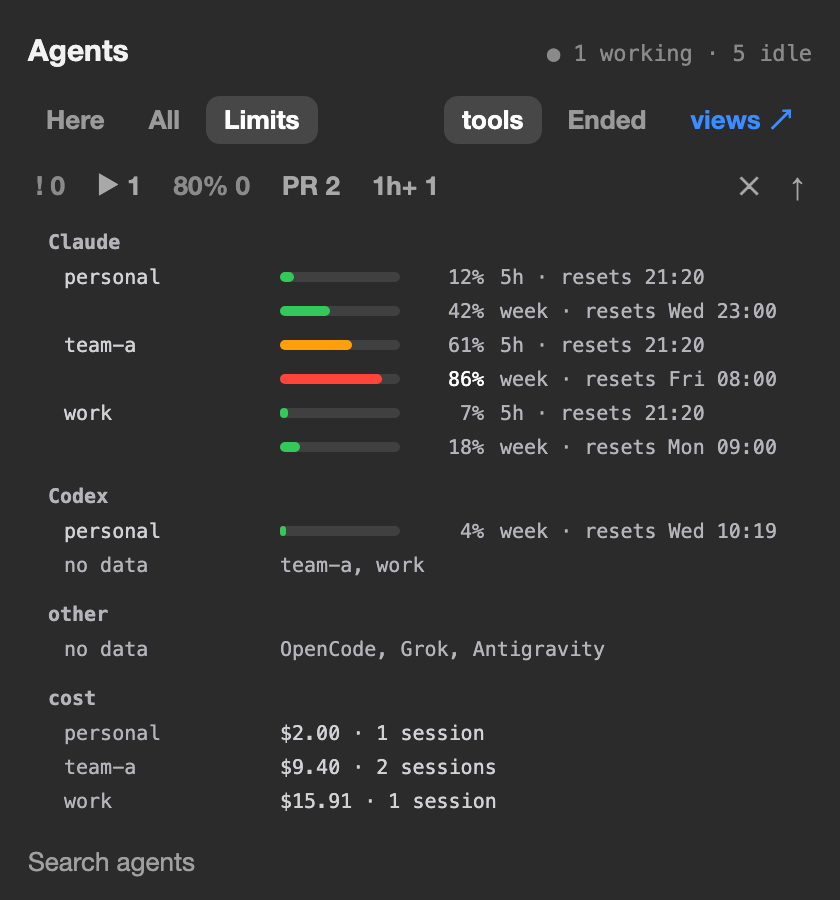
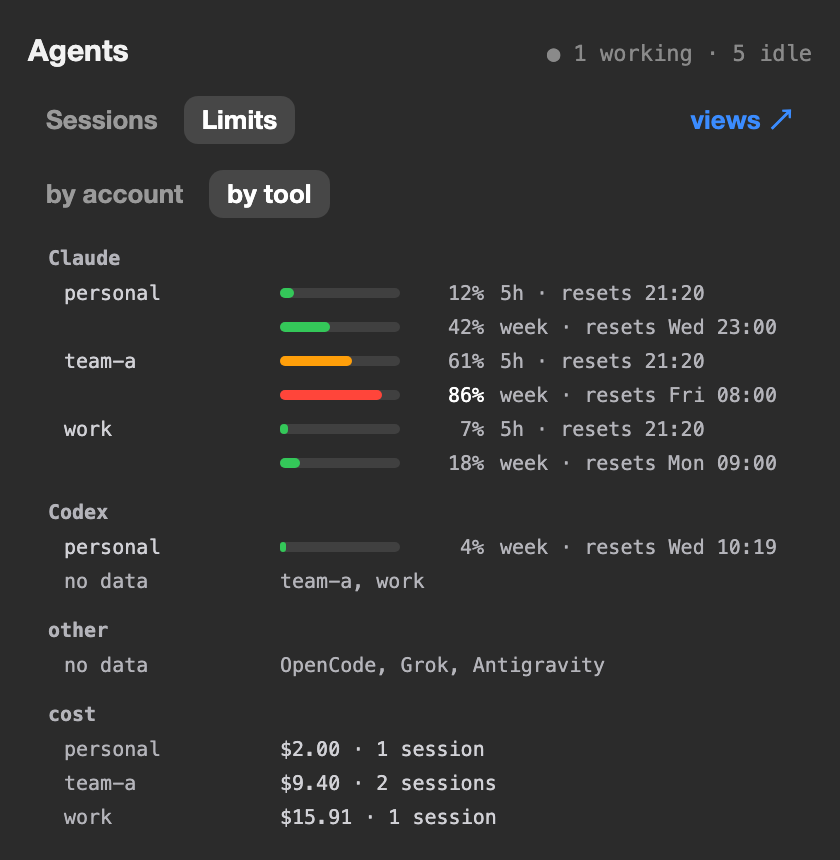
Panel controls: one job per row, and each view shows only its own controls
Row 1 is the view (Sessions, Limits), row 2 the arrangement, row 3 the filters.
Ended is a chip with a count; the Limits view shows only by account / by tool.

Claude-Session: https://claude.ai/code/session_01HXnduJEMf4sVkPrvQkemg9

diff --git a/sidebars/agents.js b/sidebars/agents.js
@@ -1487,32 +1487,49 @@ sidebar(() =>
       // No text: this view reads the tab titles, so it runs again when one changes, and serves the hive page's jumps.
       // It sits under the control row, so it adds no gap to a row.
       Text(() => hiveGo()).font(1),
+      // Row 1, what you look at: the sessions or the limits. The link at the right leaves the panel: it opens the
+      // views page in the browser (the hive tree, the timeline, cost, flow, limits, queue, context and rhythm).
       HStack({ spacing: 4 }, [
         HStack({ spacing: 0 }, [
-          segment("Here", () => !scopeAll() && !showLimits(), () => setView({ s: false, l: false })),
-          segment("All", () => scopeAll() && !showLimits(), () => setView({ s: true, l: false })),
-          segment("Limits", () => showLimits(), () => setView({ l: !showLimits() })),
+          segment("Sessions", () => !showLimits(), () => setView({ l: false })),
+          segment("Limits", () => showLimits(), () => setView({ l: !showLimits() })),  // a second click goes back to the sessions
         ]),
         Spacer(),
-        // The attention sort, then the view by state in place of by workspace.
-        toggleButton("↑", () => attention(), () => setView({ a: !attention() }), 4),
-        // In the Limits view this place holds "tools": the limits per tool in place of per account.
-        toggleButton(() => (limitsShown() ? "tools" : "state"), () => (limitsShown() ? limitsByTool() : byState()),
-          () => (limitsShown() ? setLimitsByTool(!limitsByTool()) : setByState(!byState())), 3),
-        toggleButton("Ended", () => showEnded(), () => setView({ e: !showEnded() }), 2),
-        // Opens the views page in the browser: the hive tree, the timeline, cost, flow, limits, queue, context and rhythm.
         toggleButton("views ↗", () => false, () => openViews(), 1),
       ]).paddingHorizontal(10),
     ]),
 
-    // Filter chips (a second click on the active chip shows all rows again), then the Reset chip.
-    optional("chips", () => chipItems().length || viewChanged(), () => HStack({ spacing: 4 }, [
+    // Row 2, how it is arranged. A control with no effect in a view is not shown there.
+    // Sessions: this workspace or all, then the grouping by state and the attention sort.
+    optional("arrange", () => !limitsShown(), () => HStack({ spacing: 4 }, [
+      HStack({ spacing: 0 }, [
+        segment("Here", () => !scopeAll(), () => setView({ s: false })),
+        segment("All", () => scopeAll(), () => setView({ s: true })),
+      ]),
+      Spacer(),
+      toggleButton("by state", () => byState(), () => setByState(!byState()), 2),
+      toggleButton("attention first", () => attention(), () => setView({ a: !attention() }), 1),
+    ]).paddingHorizontal(10)),
+    // Limits: per account (what one account uses and costs) or per tool (which account of a tool has room).
+    optional("limits-group", limitsShown, () => HStack({ spacing: 0 }, [
+      segment("by account", () => !limitsByTool(), () => setLimitsByTool(false)),
+      segment("by tool", () => limitsByTool(), () => setLimitsByTool(true)),
+      Spacer(),
+    ]).paddingHorizontal(10)),
+
+    // Row 3, what is filtered (sessions only). A second click on the active chip shows all rows again. The chip
+    // "ended" adds the ended sessions to the list. Then the Reset chip.
+    optional("chips", () => !limitsShown() && (chipItems().length || viewChanged() || counts().ended > 0), () => HStack({ spacing: 4 }, [
       ForEach({ items: chipItems, key: (f) => f.id }, filterChip),
+      optional("ended", () => counts().ended > 0 || showEnded(), () =>
+        chip("ended", () => String(counts().ended), () => showEnded(), () => setView({ e: !showEnded() }))
+          .help("Show the ended sessions too")),
       Spacer(),
       optional("reset", viewChanged, resetChip),
     ]).paddingHorizontal(10)),
-    // One chip per account. A second click shows all again.
-    optional("accts", () => acctItems().length, () => HStack({ spacing: 4 }, [
+    // One chip per account, after the word "account". A second click shows all again.
+    optional("accts", () => !limitsShown() && acctItems().length, () => HStack({ spacing: 4 }, [
+      Text("account").font(10).monospaced().color(META).lineLimit(1).fixedSize(),
       ForEach({ items: acctItems, key: (a) => a.id },
         (a) => chip(() => a().id, () => String(a().n), () => acctFilter() === a().id, () => setAcctFilter(acctFilter() === a().id ? "" : a().id))),
       Spacer(),
@@ -1522,7 +1539,8 @@ sidebar(() =>
     // The Limits view takes the place of the session list.
     optional("limits", limitsShown, () => VStack({ spacing: 3 }, [ForEach({ items: limitRows, key: (s) => s.key }, (s) => limitRow(s))])),
 
-    HStack({ spacing: 0 }, [
+    // The search looks in the session list, so the Limits view does not show it.
+    optional("search", () => !limitsShown(), () => HStack({ spacing: 0 }, [
       HStack({ spacing: 6 }, [
         Image("magnifyingglass").font(10).monospaced().color(META),
         TextField("", {
@@ -1532,7 +1550,7 @@ sidebar(() =>
           onSubmit: (t) => setQuery(t ?? ""),
         }),
       ]).paddingHorizontal(8).paddingVertical(5).background("#FFFFFF0F").cornerRadius(8),
-    ]).paddingHorizontal(10),
+    ]).paddingHorizontal(10)),
   ]),
 
     VStack({ spacing: 3 }, [ForEach(

diff --git a/examples/limits-tools.html b/examples/limits-tools.html
@@ -29,8 +29,8 @@
 </style></head>
 <body>
   <div class="head"><h1>Agents</h1><span class="mono dim" style="font-size:11px">● 1 working · 5 idle</span></div>
-  <div class="bar"><span>Here</span><span>All</span><span class="on">Limits</span><span class="sp"></span><span class="on">tools</span><span>Ended</span><span class="link">views ↗</span></div>
-  <div class="chips"><span class="dim">! 0</span><span>▶ 1</span><span class="dim">80% 0</span><span>PR 2</span><span>1h+ 1</span><span class="sp"></span><span>✕</span><span>↑</span></div>
+  <div class="bar"><span>Sessions</span><span class="on">Limits</span><span class="sp"></span><span class="link">views ↗</span></div>
+  <div class="bar"><span >by account</span><span class="on">by tool</span></div>
   <div class="rows">
     <div class="grp">Claude</div>
     <div class="ln"><span class="t" style="width:100px">personal</span><span class="trk"><i style="width:7px;background:#34c759"></i></span><span class="p">12%</span><span>5h · resets 21:20</span></div>
@@ -49,5 +49,4 @@
     <div class="ln"><span class="t m" style="width:100px">team-a</span><span class="cost">$9.40 · 2 sessions</span></div>
     <div class="ln"><span class="t m" style="width:100px">work</span><span class="cost">$15.91 · 1 session</span></div>
   </div>
-  <div class="search">Search agents</div>
 </body></html>

diff --git a/examples/limits.html b/examples/limits.html
@@ -29,8 +29,8 @@
 </style></head>
 <body>
   <div class="head"><h1>Agents</h1><span class="mono dim" style="font-size:11px">● 1 working · 5 idle</span></div>
-  <div class="bar"><span>Here</span><span>All</span><span class="on">Limits</span><span class="sp"></span><span>tools</span><span>Ended</span><span class="link">views ↗</span></div>
-  <div class="chips"><span class="dim">! 0</span><span>▶ 1</span><span class="dim">80% 0</span><span>PR 2</span><span>1h+ 1</span><span class="sp"></span><span>✕</span><span>↑</span></div>
+  <div class="bar"><span>Sessions</span><span class="on">Limits</span><span class="sp"></span><span class="link">views ↗</span></div>
+  <div class="bar"><span class="on">by account</span><span >by tool</span></div>
   <div class="rows">
     <div class="grp">personal</div>
     <div class="ln"><span class="t">Claude</span><span class="trk"><i style="width:7px;background:#34c759"></i></span><span class="p">12%</span><span>5h · resets 21:20</span></div>
@@ -50,5 +50,4 @@
     <div class="grp">other</div>
     <div class="ln"><span class="t m">no data</span><span>OpenCode, Grok, Antigravity</span></div>
   </div>
-  <div class="search">Search agents</div>
 </body></html>

diff --git a/examples/panel.html b/examples/panel.html
@@ -51,7 +51,8 @@
 </style></head>
 <body>
   <div class="head"><h1>Agents</h1><span class="tot"><span style="color:#5aa9ff">2 working</span><span style="color:#5ecb6b">4 idle</span><span class="mono" style="color:#d1d1d6">$68</span></span></div>
-  <div class="bar"><span>Here</span><span class="on">All</span><span>Limits</span><span class="sp"></span><span>↑</span><span>state</span><span>Ended</span><span>views ↗</span></div>
+  <div class="bar"><span class="on">Sessions</span><span>Limits</span><span class="sp"></span><span>views ↗</span></div>
+  <div class="bar"><span>Here</span><span class="on">All</span><span class="sp"></span><span>by state</span><span>attention first</span></div>
   <span class="chip">you<small>2</small></span>
   <div class="strip">
     <div><span class="k">train</span><span>merged #42</span></div>

diff --git a/README.md b/README.md
@@ -29,14 +29,14 @@ All pictures in this file are renders with sample names and sample figures.
 | `NEEDS YOU` block | All sessions that wait for your input, at the top, with the reason when it is known |
 | Filter chips | `80%` context nearly full, `PR` has a pull request, `1h+` idle for an hour, `you` the next step is yours, `push` commits that no remote holds. Each chip shows its count and names its filter on hover |
 | Head counts | `1 need you` and `2 working` at the top filter the list to those sessions; a second tap shows all. The `idle` count has no tap, because the `1h+` chip counts only sessions idle for an hour |
-| `↑` sort | Sessions that need attention first; the default order is the tab order |
-| `✕ Reset` | Shows when the view is not the default. Back to the default view: no chip, no account, tab order, all workspaces, no ended rows, no `state` grouping. The search text stays |
+| `attention first` | Sort: sessions that need attention first; the default order is the tab order |
+| `✕ Reset` | Shows when the view is not the default. Back to the default view: no chip, no account, tab order, all workspaces, no ended rows, no `by state` grouping. The search text stays |
 | Subagents | `▸ 2 sub` on a row opens the subagent rows. The count comes from cmux, or from the Claude Code records when cmux reports none |
 | Details | `›` on a row opens state, tool, folder, branch, ports, first and last request |
 | Right-click menu | Go to session, copy name, copy folder, copy PR number, fast commands |
 | `views ↗` | A page of pictures in a cmux browser tab, with a switch at the top: Hive, Timeline, Cost, Limits, Queue, Context, Inside, Rhythm, Setup (see "The views page"). The Hive view is a graph: workspace → session → subagent. It updates every 15 seconds. The open tab has a blue box. A click on a session goes to its tab, and the page follows you to another workspace |
 | Next waiting | `next-waiting.sh` goes to the Claude Code session that has waited for you the longest |
-| `Limits` | Next to `Here` and `All`: the rate limits of each agent tool on this Mac, per window (5 hours, week), with the reset time and the age of the figure. Grouped per account; the `tools` switch groups them per tool (see "The Limits view"). The panel remembers the choice |
+| `Limits` | Next to `Sessions` in the first row: the rate limits of each agent tool on this Mac, per window (5 hours, week), with the reset time and the age of the figure. Grouped `by account`; `by tool` groups them per tool (see "The Limits view"). The panel remembers the choice |
 | Search | Type in `Search agents`: rows stay when the text is in the tab title (with the session name), the tool, the account, the workspace name or the folder. Capital letters do not matter. A search text looks in every workspace, also with `Here` on. A chip narrows the result further. While `Limits` is on, a search text shows the sessions again |
 | Account chips | With sessions on two accounts or more, one chip per account under the filter chips, with its row count. A click shows only that account; a second click, or `✕ Reset`, shows all |
 | Account colour | Each account name has one fixed colour, the same on the row tag, on the hive page and at the start of the session's status line. There are six colours, so two names can share one |
@@ -59,7 +59,7 @@ All pictures in this file are renders with sample names and sample figures.
 | Health | One mark per row, the worst first: `loop 6` (red: 6 failed tool calls in a row), `overlap 2` (yellow: 2 files also edited by another session), `silent 1` (yellow: a subagent with no output for 10 minutes to 2 hours). The row details list all of them, with the total of failed tool calls and API errors; that total is not a mark, because every long session has one |
 | On its agents | A session that ended its turn while its subagents still run shows `agents running` and is not counted in `NEEDS YOU` until they end. A permission or a question always counts |
 | Not seen | A session that ended its turn in a tab without focus is `finished · not seen` until you open the tab (kept until the panel reloads) |
-| `state` | Next to `↑`: groups the rows by state in place of by workspace: `NEEDS YOU`, `FINISHED · NOT SEEN`, `RUNNING`, `RECENT` (idle under 1 hour), `IDLE`. Each row then carries its workspace as a pill. Not saved across reloads |
+| `by state` | Next to `attention first`: groups the rows by state in place of by workspace: `NEEDS YOU`, `FINISHED · NOT SEEN`, `RUNNING`, `RECENT` (idle under 1 hour), `IDLE`. Each row then carries its workspace as a pill. Not saved across reloads |
 | Limit bars | Each live limit window has a bar and its percent in fixed columns: green, orange from 50%, red from 80%. Each limit line of the strip has a small bar too. The `train` line leaves out clauses such as `refused none` |
 | Empty list | `No sessions yet` when no session runs. `Nothing matches` when a chip, an account, `Here` or the search hides every session; `Clear filters` resets the view and the search |
 | Work marks | In orange on a row: `dup` when two live sessions work in one folder on one work branch, `↑2` for 2 commits that no remote holds, `⟳3` from the third context compaction |
@@ -82,10 +82,12 @@ From top to bottom of the picture. "You do" says what the mark asks of you.
 | Mark | Meaning | You do |
 |---|---|---|
 | `2 working` `4 idle` `$68` | Sessions that work now, sessions that wait, summed cost of the open sessions | Click a count to filter the list to those sessions |
-| `Here` `All` `Limits` | `Here`: the sessions of the open workspace. `All`: every workspace. `Limits`: the rate limits per tool and account | Click one; the panel remembers it |
-| `↑` | Sort: sessions that need attention first | Click to turn on or off |
-| `state` | Groups the rows by state in place of by workspace | Click to turn on or off |
-| `Ended` | Also shows sessions that ended. The ended runs of a tab that hosts a live session share one row, `3 earlier runs in this tab`, with no marks, no cost and no focus: those belong to the live session | Click to turn on or off |
+| `Sessions` `Limits` | Row 1, what you look at: the session list, or the rate limits per tool and account. A control with no effect in a view is not shown there | Click one; the panel remembers it |
+| `Here` `All` | Row 2 of `Sessions`: the sessions of the open workspace, or every workspace | Click one; the panel remembers it |
+| `by state` | Row 2 of `Sessions`: groups the rows by state in place of by workspace | Click to turn on or off |
+| `attention first` | Row 2 of `Sessions`: sorts sessions that need attention first | Click to turn on or off |
+| `by account` `by tool` | Row 2 of `Limits`, its only control: the grouping of the limits. The search field and the chips belong to the session list and do not show here | Click one |
+| `ended` chip | Row 3 of `Sessions`, with the filter chips, with the number of ended sessions. Also shows sessions that ended. The ended runs of a tab that hosts a live session share one row, `3 earlier runs in this tab`, with no marks, no cost and no focus: those belong to the live session | Click to turn on or off |
 | `views ↗` | Opens the views page: the hive graph, and six more pictures of the same data | Click |
 | `you 2` chip | 2 sessions whose next step is yours | Click to see only those |
 | `train` line | One line of project state from a watcher of your own (optional) | Read |
@@ -222,9 +224,9 @@ The pictures are renders of `scripts/hive.html` with sample data.
 
 ### The Limits view in the panel
 
-The `Limits` view of the panel (the third segment next to `Here` and `All`) has two groupings. Both show a bar and a percent per window: green, orange from 50%, red from 80%. The `tools` switch in the top bar, where `state` sits in the other views, changes the grouping. It is off by default, and it is not saved: after a panel reload it is off again.
+The `Limits` view of the panel (the segment next to `Sessions`) has two groupings. Both show a bar and a percent per window: green, orange from 50%, red from 80%. The pair `by account` / `by tool` under the first row changes the grouping, and it is the only control in this view. `by account` is the default, and the choice is not saved: after a panel reload it is `by account` again.
 
-**Per account** (`tools` off). Each account is a group.
+**Per account** (`by account`). Each account is a group.
 
 - The account name is a small muted header. The account of the tool's normal folder (the `default` line) comes first, the other accounts follow by name.
 - Under it, each tool with its windows. The tool name shows once; the 5-hour and the week window are separate lines.
@@ -235,7 +237,7 @@ The `Limits` view of the panel (the third segment next to `Here` and `All`) has 
 
 <img src="examples/limits.png" alt="Drawing of the Limits view grouped per account: personal, team-a, work and other, each with its tools, bars, windows, no-data tools and cost" width="420">
 
-**Per tool** (`tools` on). Each tool is a group.
+**Per tool** (`by tool`). Each tool is a group.
 
 - The tool name is the header. Under it, each account once with its windows, then the accounts of that tool with no data on one muted `no data` line.
 - Tools with no window and no account come last, under `other`.
